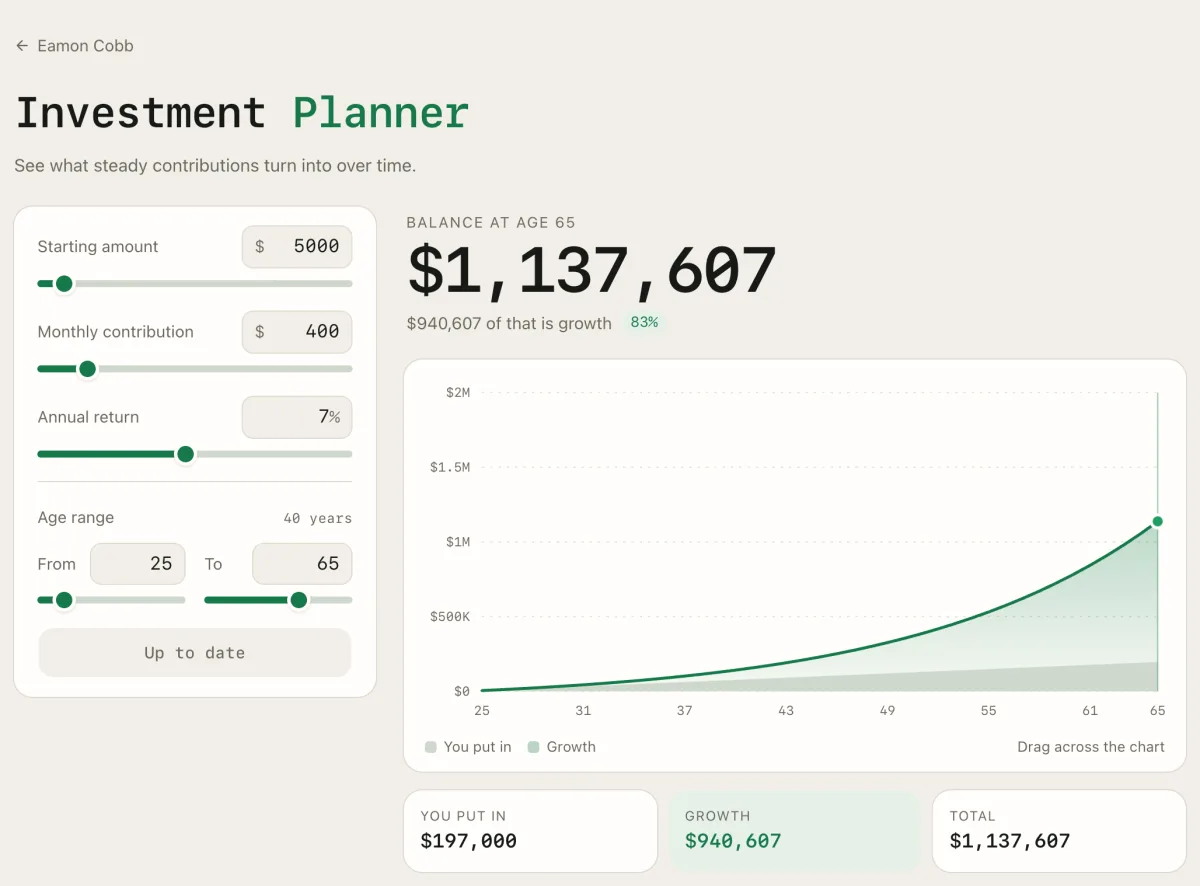
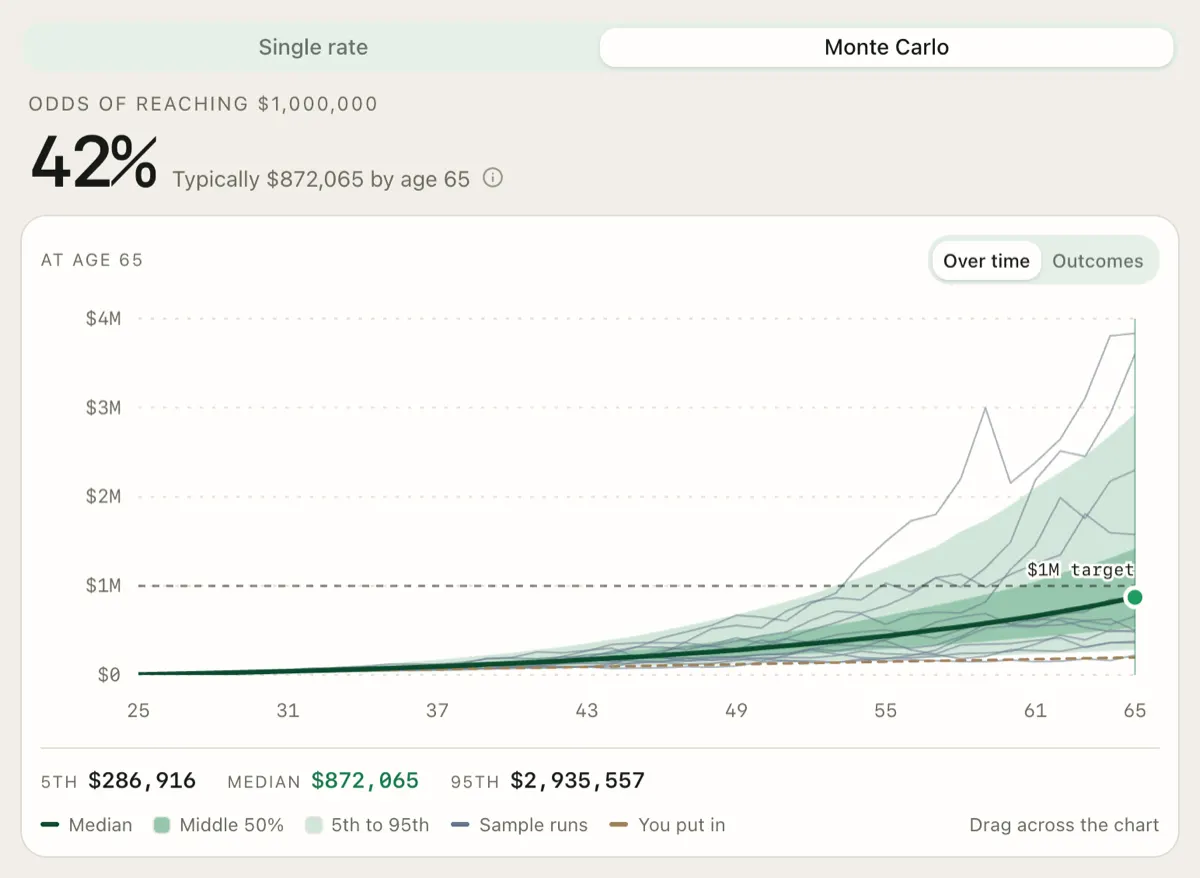
Update planner preview and mark it live

diff --git a/src/content.js b/src/content.js
@@ -72,7 +72,7 @@ export const skillGroups = [
 //   {
 //     title: 'Investment Planner',
 //     year: '2026',
-//     status: 'In progress',          // omit once it's done
+//     status: 'Live',                 // or 'In progress'; omit for neither
 //     blurb: 'One or two lines on what it does and what you built.',
 //     tags: ['Python', 'PostgreSQL'],
 //     href: '/investmentplanner/',    // omit and the card is not a link
@@ -85,9 +85,10 @@ export const projects = {
     {
       title: 'Investment Planner',
       year: '2026',
-      status: 'In progress',
+      status: 'Live',
       current: true,
-      blurb: 'A tool for modelling contributions and projecting portfolio growth.',
+      blurb:
+        'A tool for modelling contributions and projecting portfolio growth, with a Monte Carlo mode that runs ten thousand futures to show the range of outcomes.',
       href: '/investmentplanner/',
       preview: investmentPlannerPreview,
     },
